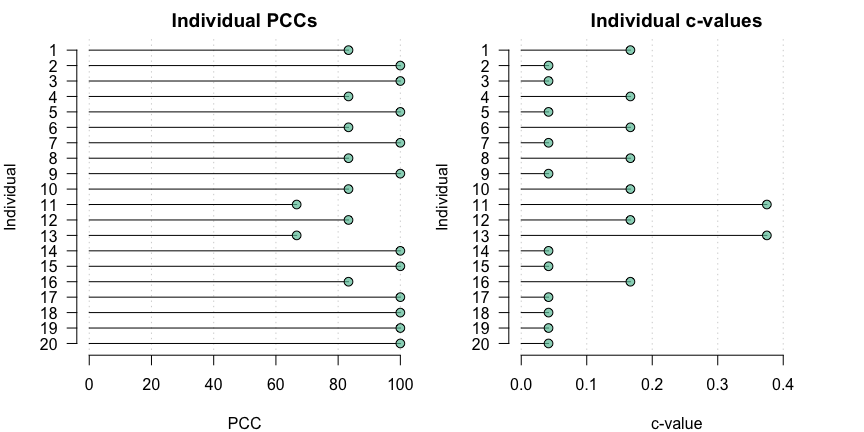
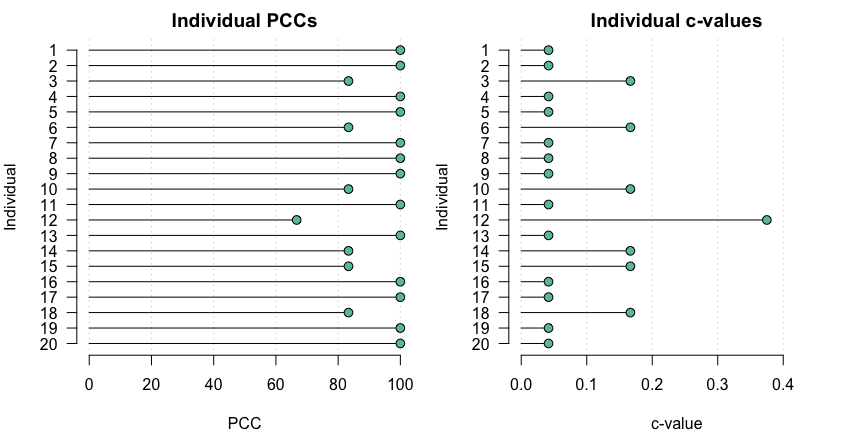
Updated readme

diff --git a/README.md b/README.md
@@ -103,6 +103,8 @@ Data should be in *wide* format with one column per measurement
 condition and one row per individual:
 
 ``` r
+set.seed(123)
+
 dat <- data.frame(t1 = rnorm(20, mean = 12, sd = 2),
                   t2 = rnorm(20, mean = 15, sd = 2),
                   t3 = rnorm(20, mean = 20, sd = 2),
@@ -110,26 +112,26 @@ dat <- data.frame(t1 = rnorm(20, mean = 12, sd = 2),
                   
 round(dat, 2)
 #>       t1    t2    t3    t4
-#> 1  12.67 12.00 22.72 18.15
-#> 2  11.62 15.29 19.44 16.73
-#> 3  12.45 14.26 19.96 17.80
-#> 4  15.85 15.23 19.39 19.36
-#> 5   9.85 13.41 19.67 16.36
-#> 6  13.93 16.96 19.08 16.76
-#> 7  12.33 13.29 19.77 14.72
-#> 8  10.60 16.16 21.05 14.98
-#> 9  11.05 13.84 21.85 16.22
-#> 10 14.04 15.82 20.55 14.20
-#> 11 11.74 11.39 19.71 20.26
-#> 12 14.60 14.21 21.17 18.71
-#> 13 16.84 16.92 20.84 14.62
-#> 14  9.42 14.82 20.53 16.08
-#> 15 14.05 16.01 18.32 16.31
-#> 16 12.53 17.69 20.66 17.64
-#> 17  9.62 13.40 22.73 16.00
-#> 18 10.01 16.14 23.26 19.63
-#> 19 10.25 13.64 21.08 14.62
-#> 20 11.34 14.33 23.98 15.27
+#> 1  10.88 12.86 18.61 17.76
+#> 2  11.54 14.56 19.58 16.00
+#> 3  15.12 12.95 17.47 16.33
+#> 4  12.14 13.54 24.34 14.96
+#> 5  12.26 13.75 22.42 14.86
+#> 6  15.43 11.63 17.75 17.61
+#> 7  12.92 16.68 19.19 17.90
+#> 8   9.47 15.31 19.07 17.11
+#> 9  10.63 12.72 21.56 18.84
+#> 10 11.11 17.51 19.83 21.10
+#> 11 14.45 15.85 20.51 16.02
+#> 12 12.72 14.41 19.94 12.38
+#> 13 12.80 16.79 19.91 19.01
+#> 14 12.22 16.76 22.74 15.58
+#> 15 10.89 16.64 19.55 15.62
+#> 16 15.57 16.38 23.03 19.05
+#> 17 13.00 16.11 16.90 16.43
+#> 18  8.07 14.88 21.17 14.56
+#> 19 13.40 14.39 20.25 17.36
+#> 20 11.05 14.24 20.43 16.72
 ```
 
 An ordinal pattern analysis model to consider how the hypothesis `h`
@@ -147,28 +149,28 @@ summary(opamod)
 #> 
 #> Between subjects results:
 #>          PCC cval
-#> pooled 90.83 0.12
+#> pooled 93.33  0.1
 #> 
 #> Within subjects results:
 #>       PCC cval
-#> 1   83.33 0.17
+#> 1  100.00 0.04
 #> 2  100.00 0.04
-#> 3  100.00 0.04
-#> 4   83.33 0.17
+#> 3   83.33 0.17
+#> 4  100.00 0.04
 #> 5  100.00 0.04
 #> 6   83.33 0.17
 #> 7  100.00 0.04
-#> 8   83.33 0.17
+#> 8  100.00 0.04
 #> 9  100.00 0.04
 #> 10  83.33 0.17
-#> 11  66.67 0.38
-#> 12  83.33 0.17
-#> 13  66.67 0.38
-#> 14 100.00 0.04
-#> 15 100.00 0.04
-#> 16  83.33 0.17
+#> 11 100.00 0.04
+#> 12  66.67 0.38
+#> 13 100.00 0.04
+#> 14  83.33 0.17
+#> 15  83.33 0.17
+#> 16 100.00 0.04
 #> 17 100.00 0.04
-#> 18 100.00 0.04
+#> 18  83.33 0.17
 #> 19 100.00 0.04
 #> 20 100.00 0.04
 #> 
@@ -196,15 +198,15 @@ condition_comparisons <- compare_conditions(opamod)
 condition_comparisons$pccs
 #>     1   2  3 4
 #> 1   -   -  - -
-#> 2  80   -  - -
+#> 2  90   -  - -
 #> 3 100 100  - -
-#> 4  95  75 95 -
+#> 4  95  80 95 -
 condition_comparisons$cvals
-#>       1     2     3 4
-#> 1     -     -     - -
-#> 2   0.6     -     - -
-#> 3   0.5   0.5     - -
-#> 4 0.525 0.625 0.525 -
+#>       1   2     3 4
+#> 1     -   -     - -
+#> 2  0.55   -     - -
+#> 3   0.5 0.5     - -
+#> 4 0.525 0.6 0.525 -
 ```
 
 ### Multiple groups
@@ -227,33 +229,33 @@ summary(opamod2)
 #> Ordinal Pattern Analysis of 4 observations for 20 individuals in 4 groups 
 #> 
 #> Between subjects results:
-#>     PCC cval
-#> A 90.00 0.13
-#> B 93.33 0.09
-#> C 93.33 0.11
-#> D 86.67 0.14
+#>      PCC cval
+#> A 100.00 0.04
+#> B  86.67 0.14
+#> C  93.33 0.09
+#> D  93.33 0.11
 #> 
 #> Within subjects results:
 #>   Individual    PCC cval
-#> A          1  83.33 0.17
+#> A          1 100.00 0.04
 #> A          5 100.00 0.04
 #> A          9 100.00 0.04
-#> A         13  66.67 0.38
+#> A         13 100.00 0.04
 #> A         17 100.00 0.04
 #> B          2 100.00 0.04
 #> B          6  83.33 0.17
 #> B         10  83.33 0.17
-#> B         14 100.00 0.04
-#> B         18 100.00 0.04
-#> C          3 100.00 0.04
+#> B         14  83.33 0.17
+#> B         18  83.33 0.17
+#> C          3  83.33 0.17
 #> C          7 100.00 0.04
-#> C         11  66.67 0.38
-#> C         15 100.00 0.04
+#> C         11 100.00 0.04
+#> C         15  83.33 0.17
 #> C         19 100.00 0.04
-#> D          4  83.33 0.17
-#> D          8  83.33 0.17
-#> D         12  83.33 0.17
-#> D         16  83.33 0.17
+#> D          4 100.00 0.04
+#> D          8 100.00 0.04
+#> D         12  66.67 0.38
+#> D         16 100.00 0.04
 #> D         20 100.00 0.04
 #> 
 #> PCCs were calculated for pairwise ordinal relationships using a difference threshold of 0.

diff --git a/cran-comments.md b/cran-comments.md
@@ -12,3 +12,5 @@ There was 1 NOTE:
 I have manually checked that this DOI is correct and that 
 https://doi.org/10.1177/2158244015604192 resolves to the valid URL
 https://journals.sagepub.com/doi/10.1177/2158244015604192
+
+THANK YOU!
